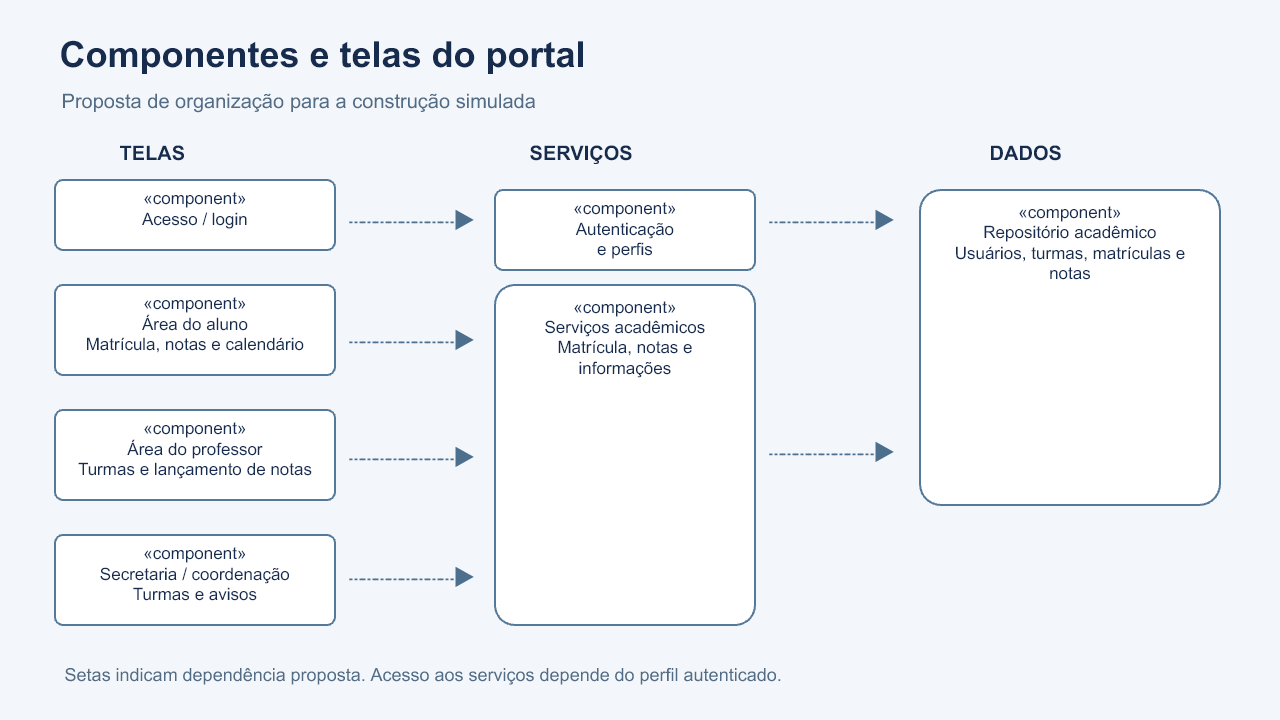
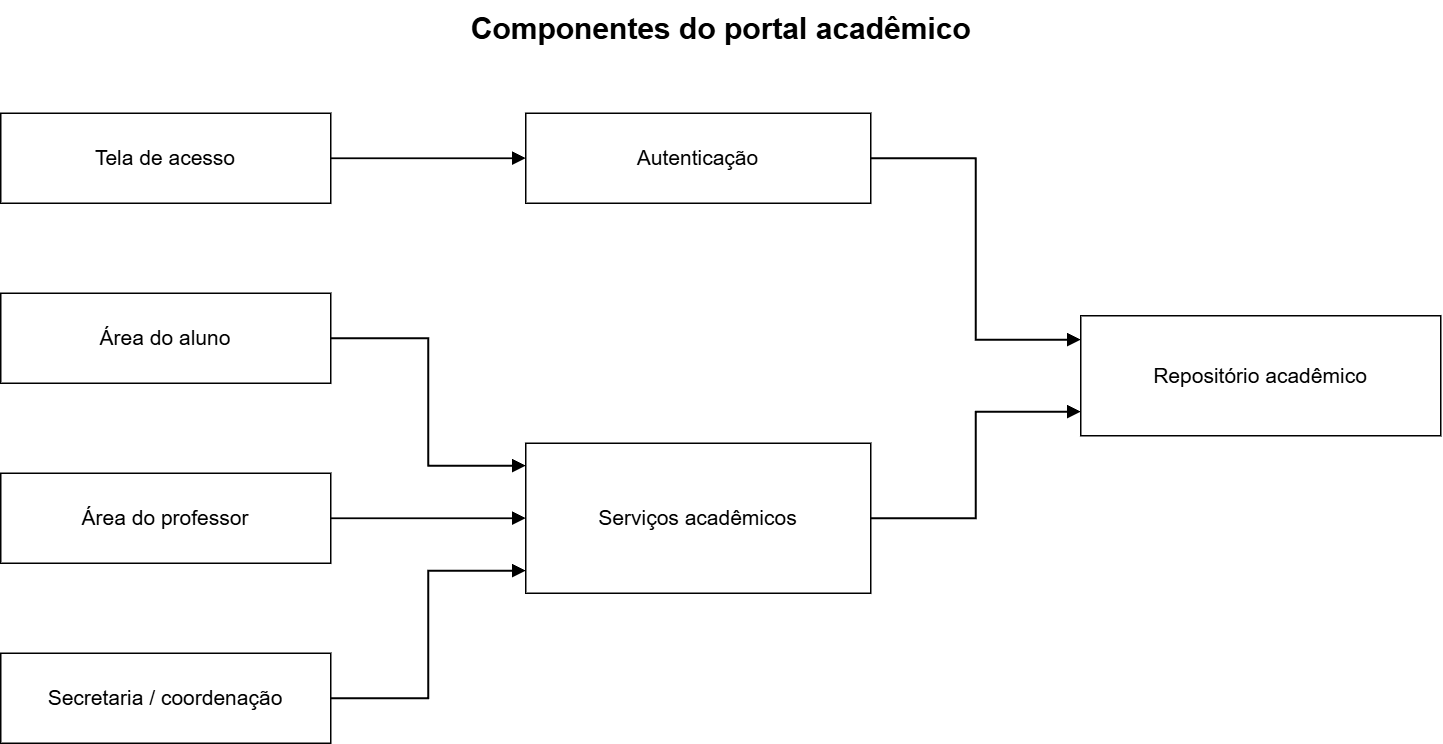
Atualiza PNG simples do diagrama de componentes

diff --git a/README.md b/README.md
@@ -44,4 +44,4 @@ O material é uma proposta de apresentação e modelagem; as regras acadêmicas 
 
 ## Componentes e telas
 
-O [diagrama de componentes e telas](diagramas/componentes/telas-e-servicos.png) apresenta uma proposta para a segunda fase simulada. As telas de acesso, aluno, professor e secretaria utilizariam serviços de autenticação e serviços acadêmicos, que dependem de um repositório. A imagem descreve uma arquitetura proposta, não uma implementação comprovada. O PDF original mantém os cinco diagramas de modelagem.
+O arquivo editável [telas-e-servicos.drawio](diagramas/componentes/telas-e-servicos.drawio), feito no draw.io, tem uma versão em [PNG](diagramas/componentes/telas-e-servicos.png) para visualização rápida. As telas de acesso, aluno, professor e secretaria utilizam serviços de autenticação e serviços acadêmicos, que dependem de um repositório. A imagem descreve uma arquitetura proposta, não uma implementação comprovada. O PDF original mantém os cinco diagramas de modelagem.
